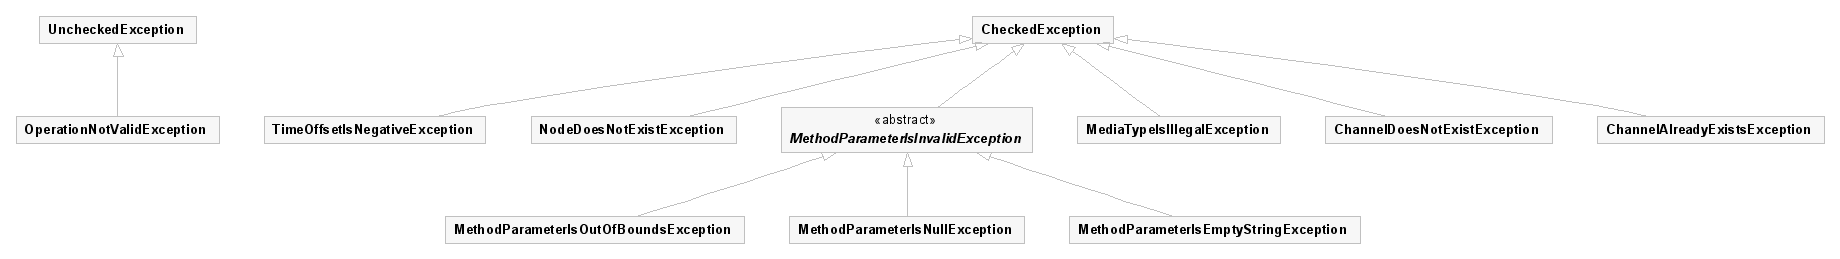
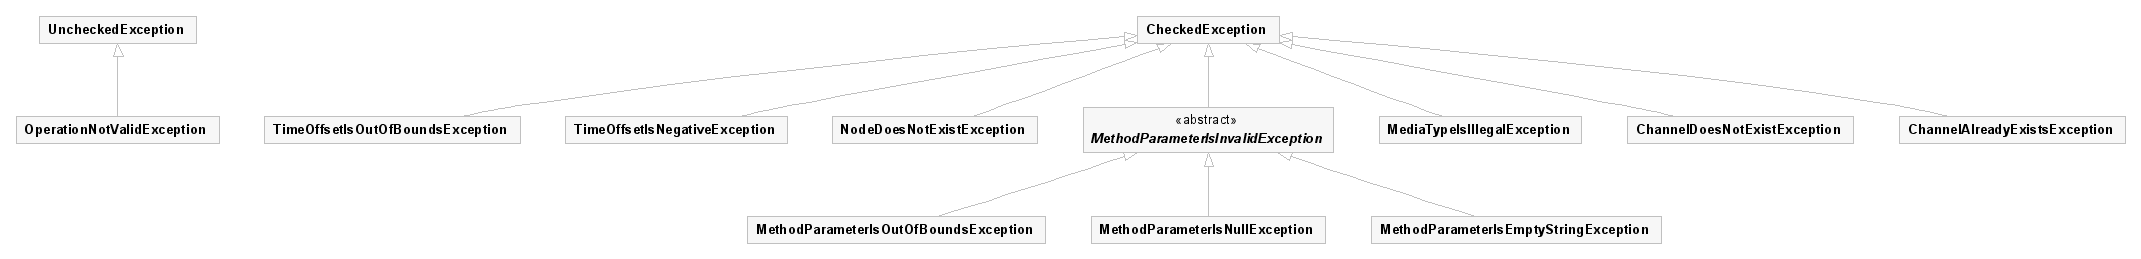
- Daniel WECK * Fixed small rendering bug and updated the PNG UML class diagrams.

diff --git a/java/UMLGraph/src/org/daisy/urakawa/UMLGraph_Urakawa.java b/java/UMLGraph/src/org/daisy/urakawa/UMLGraph_Urakawa.java
@@ -162,7 +162,7 @@ class ViewVisitors extends ViewBase {
  * @tagvalue Notes "{The Entities with a white background color are not specific to this Class Diagram <br/> and may be used in other Class Diagrams. This is why they are marked as such. <br/> <br/> }Notes"
  * @tagvalue Notes "{The Entities with a bright green background color are 'Interface Lollipops': <br/> they refer to another part of the Model outside of this Class Diagram. <br/> The description of this Interface (Operations) is therefore ommited. <br/> <br/> }Notes"
  * @tagvalue Notes "{The Class names in red are just for highlighting purposes, <br/> for a reader to visually locate actual implementations in the Diagram. <br/> <br/> }Notes"
- * @tagvalue Notes "{Some Operations may have an '{Exceptions AnException, AnotherException}' annotation. <br/> This is used to show the full method signature including thrown Exceptions. <br/> These Exceptions are mostly used for assertion and they should be implemented <br/> and raised according to the full specification available in the design comments <br/> (not shown in the Class Diagram, please see the Java source code) <br/> Implementations of this error checking paradigm may vary, <br/> depending on language and performance considerations.
+ * @tagvalue Notes "{Some Operations may have an '{Exceptions AnException, AnotherException}' annotation. <br/> This is used to show the full method signature including thrown Exceptions. <br/> These Exceptions are mostly used for assertion and they should be implemented <br/> and raised according to the full specification available in the design comments <br/> (not shown in the Class Diagram, please see the Java source code) <br/> Implementations of this error checking paradigm may vary, <br/> depending on language and performance considerations. <br/> <br/> }Notes"
  * @tagvalue Notes "{Some operations are decorated with an 'Initialize' stereotype. <br/> This means that they should *only* be called at construction/initialization time, <br/> usually by the Factory. It has the same effect as having a 'package' visibility, <br/> assuming the Factory is in the same package of course (an end-user from another package <br/> could not call the method). <br/> <br/> }Notes"
  * @tagvalue Notes "{ The Entities with a dark-red font color are dedicated to validation. <br/> Like most colors used in the diagram, this is just a visual hint to help the reader.<br/> <br/> }Notes"
  * @opt nodefillcolor Yellow
